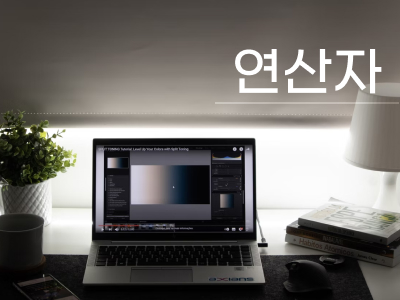
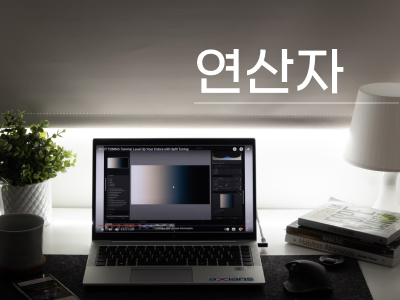
220720

Changed region(s): [[0.48, 0.15, 0.96, 0.36]]

diff --git a/javascript/index.html b/javascript/index.html
@@ -27,11 +27,11 @@
             font-family: 'GmarketSans';
             text-align: center;
             padding: 2vw;
-            border: 8px solid #aa89c0;
+            border: 8px solid #0243f1;
             box-sizing: border-box;
         }
         h1 {
-            color: #aa89c0;
+            color: #0243f1;
             font-size: 8vw;
             margin-bottom: 4vh;
         }
@@ -42,7 +42,7 @@
         nav ul li a {
             border-radius: 50px;
             text-decoration: none;
-            border: 1px dashed #aa89c0;
+            border: 1px dashed #0243f1;
             padding: 1.2vw 3vw;
             display: inline-block;
             margin: 0.5vw;
@@ -50,7 +50,7 @@
             transition: all 0.3s;
         }
         nav ul li a:hover {
-            background-color: #aa89c0;
+            background-color: #0243f1;
             color: #ffffff;
         }
     </style>
